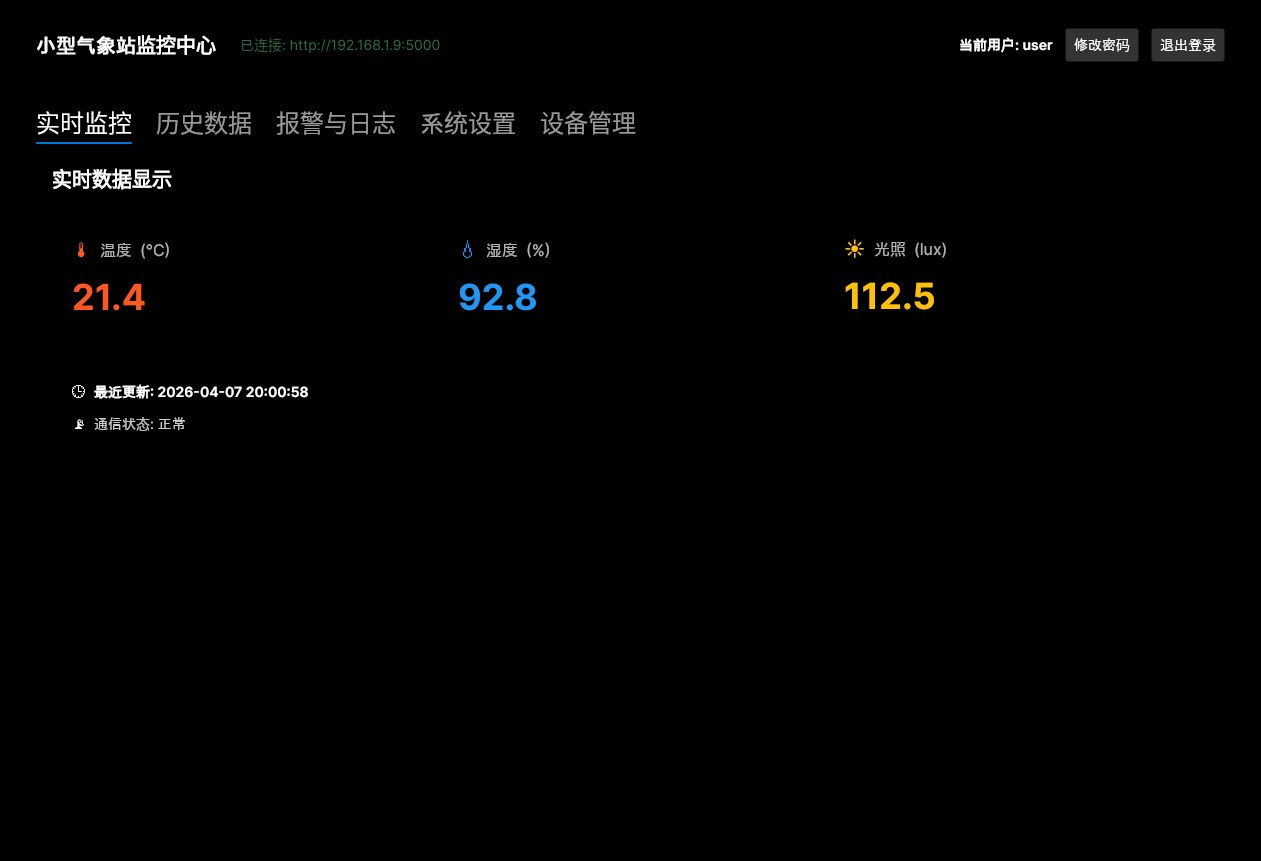
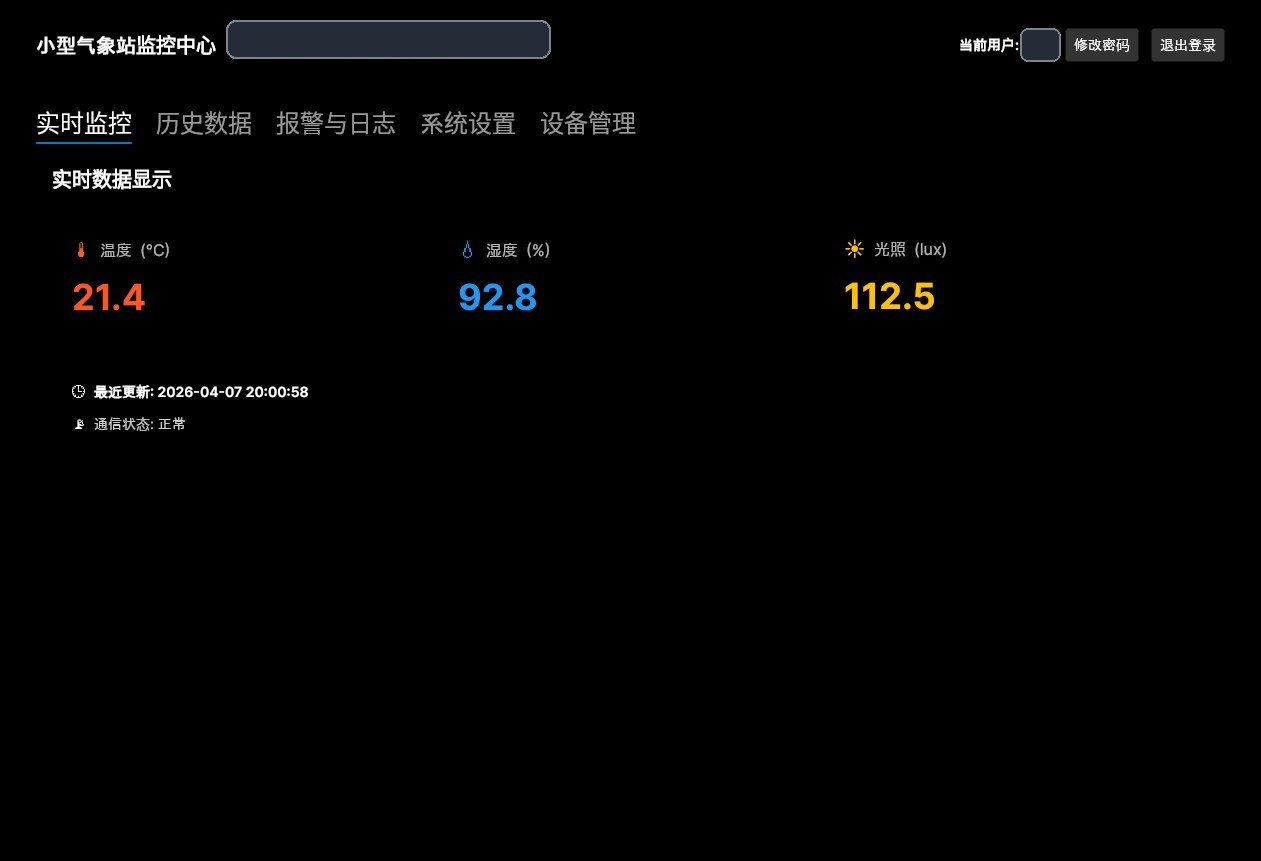
fix(privacy): mask the LAN address and username in UI screenshots
The realtime view still showed the private server URL and the login
name in its title bar, and the history view still showed the login name.
Cover them with the same rounded mask the history view already uses for
its address, keeping the original JPEG quantisation tables and no
metadata, and record the masking in docs/MEDIA_EVIDENCE.md.

Changed region(s): [[0.1546, 0.0, 0.4639, 0.0906], [0.8041, 0.0302, 0.866, 0.0906]]

diff --git a/docs/MEDIA_EVIDENCE.md b/docs/MEDIA_EVIDENCE.md
@@ -11,8 +11,8 @@
 
 | 公开路径 | 拍摄日期 / 来源日期 | 脱敏处理 | 文件说明 |
 |:--|:--|:--|:--|
-| `assets/screenshots/historical-history-view.jpg` | 2026-04-07 | 已移除 EXIF/GPS 及其他图片元数据；从副本缩放处理；已遮盖可见的私人或本地信息 | 桌面历史记录界面；已遮盖私网 URL。 |
-| `assets/screenshots/historical-realtime-view.jpg` | 2026-04-07 | 已移除 EXIF/GPS 及其他图片元数据；从副本缩放处理 | 桌面实时界面。 |
+| `assets/screenshots/historical-history-view.jpg` | 2026-04-07 | 已移除 EXIF/GPS 及其他图片元数据；从副本缩放处理；已遮盖可见的私人或本地信息 | 桌面历史记录界面；已遮盖私网 URL 和登录用户名。 |
+| `assets/screenshots/historical-realtime-view.jpg` | 2026-04-07 | 已移除 EXIF/GPS 及其他图片元数据；从副本缩放处理；已遮盖可见的私人或本地信息 | 桌面实时界面；已遮盖私网 URL 和登录用户名。 |
 | `assets/screenshots/historical-service-log-redacted.jpg` | 2026-04-07 | 已移除 EXIF/GPS 及其他图片元数据；从副本缩放处理；已遮盖可见的私人或本地信息 | 服务日志；已遮盖终端用户名、路径和私网地址。 |
 
 ## 未公开材料
